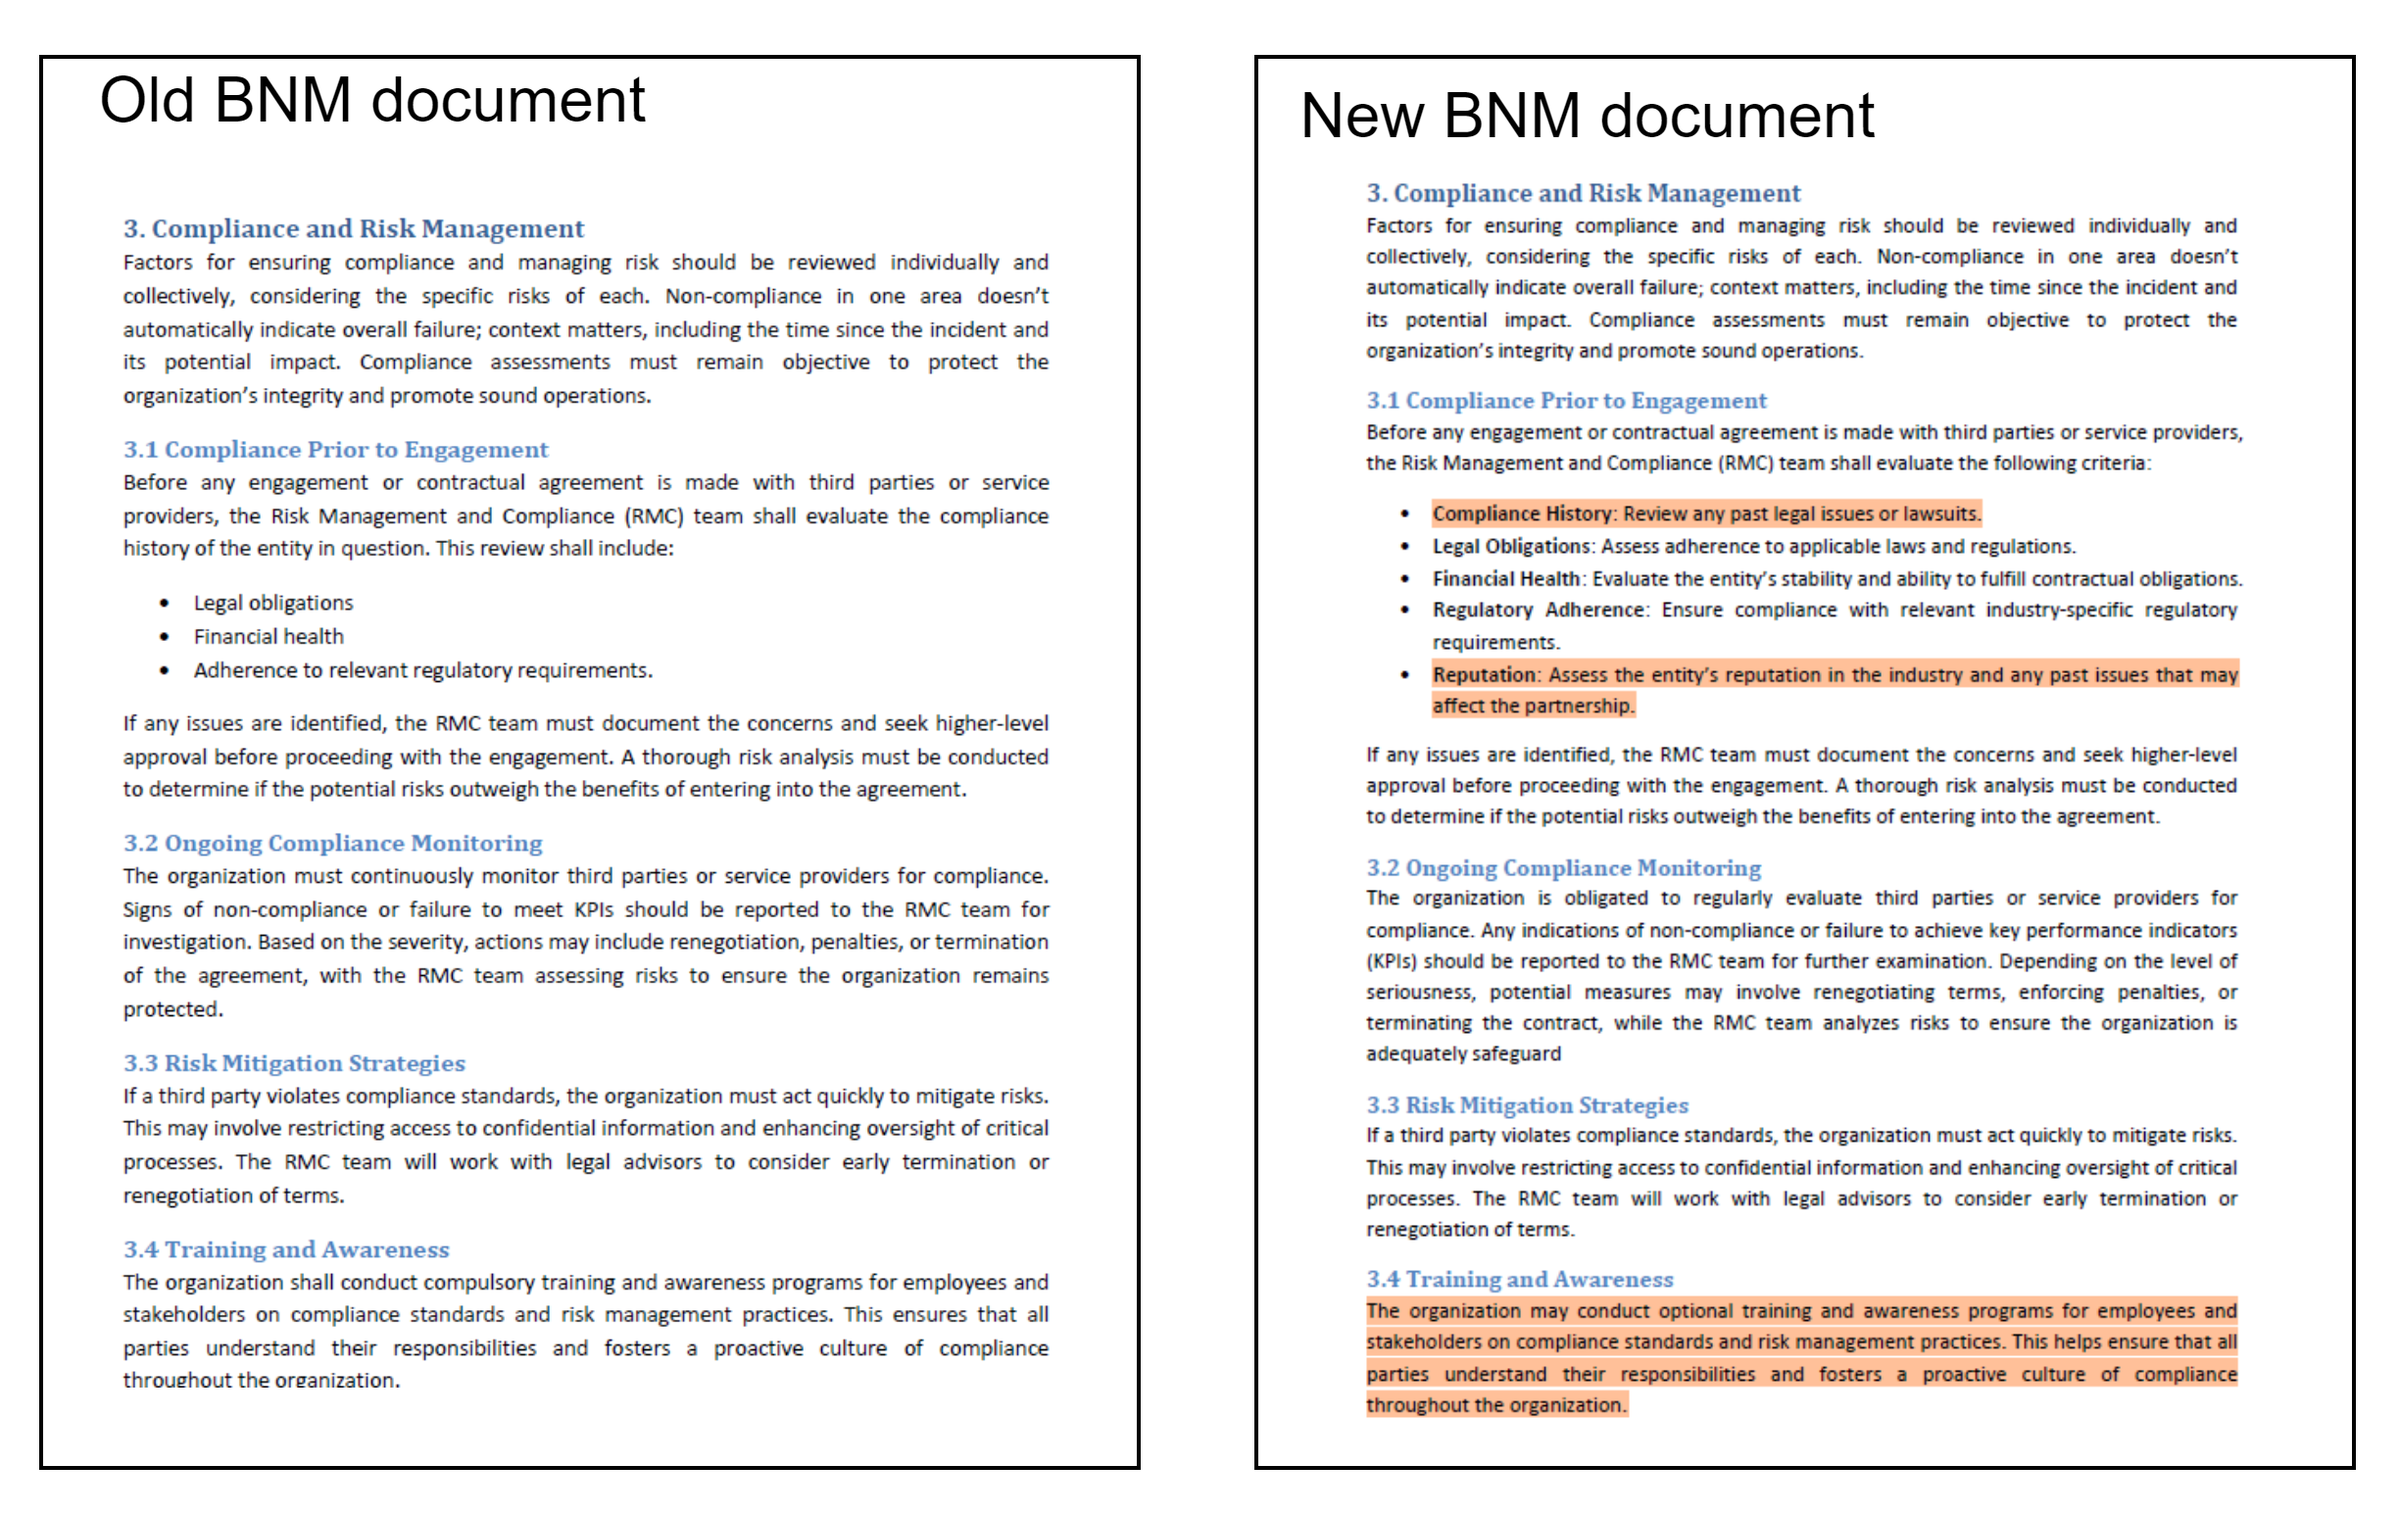
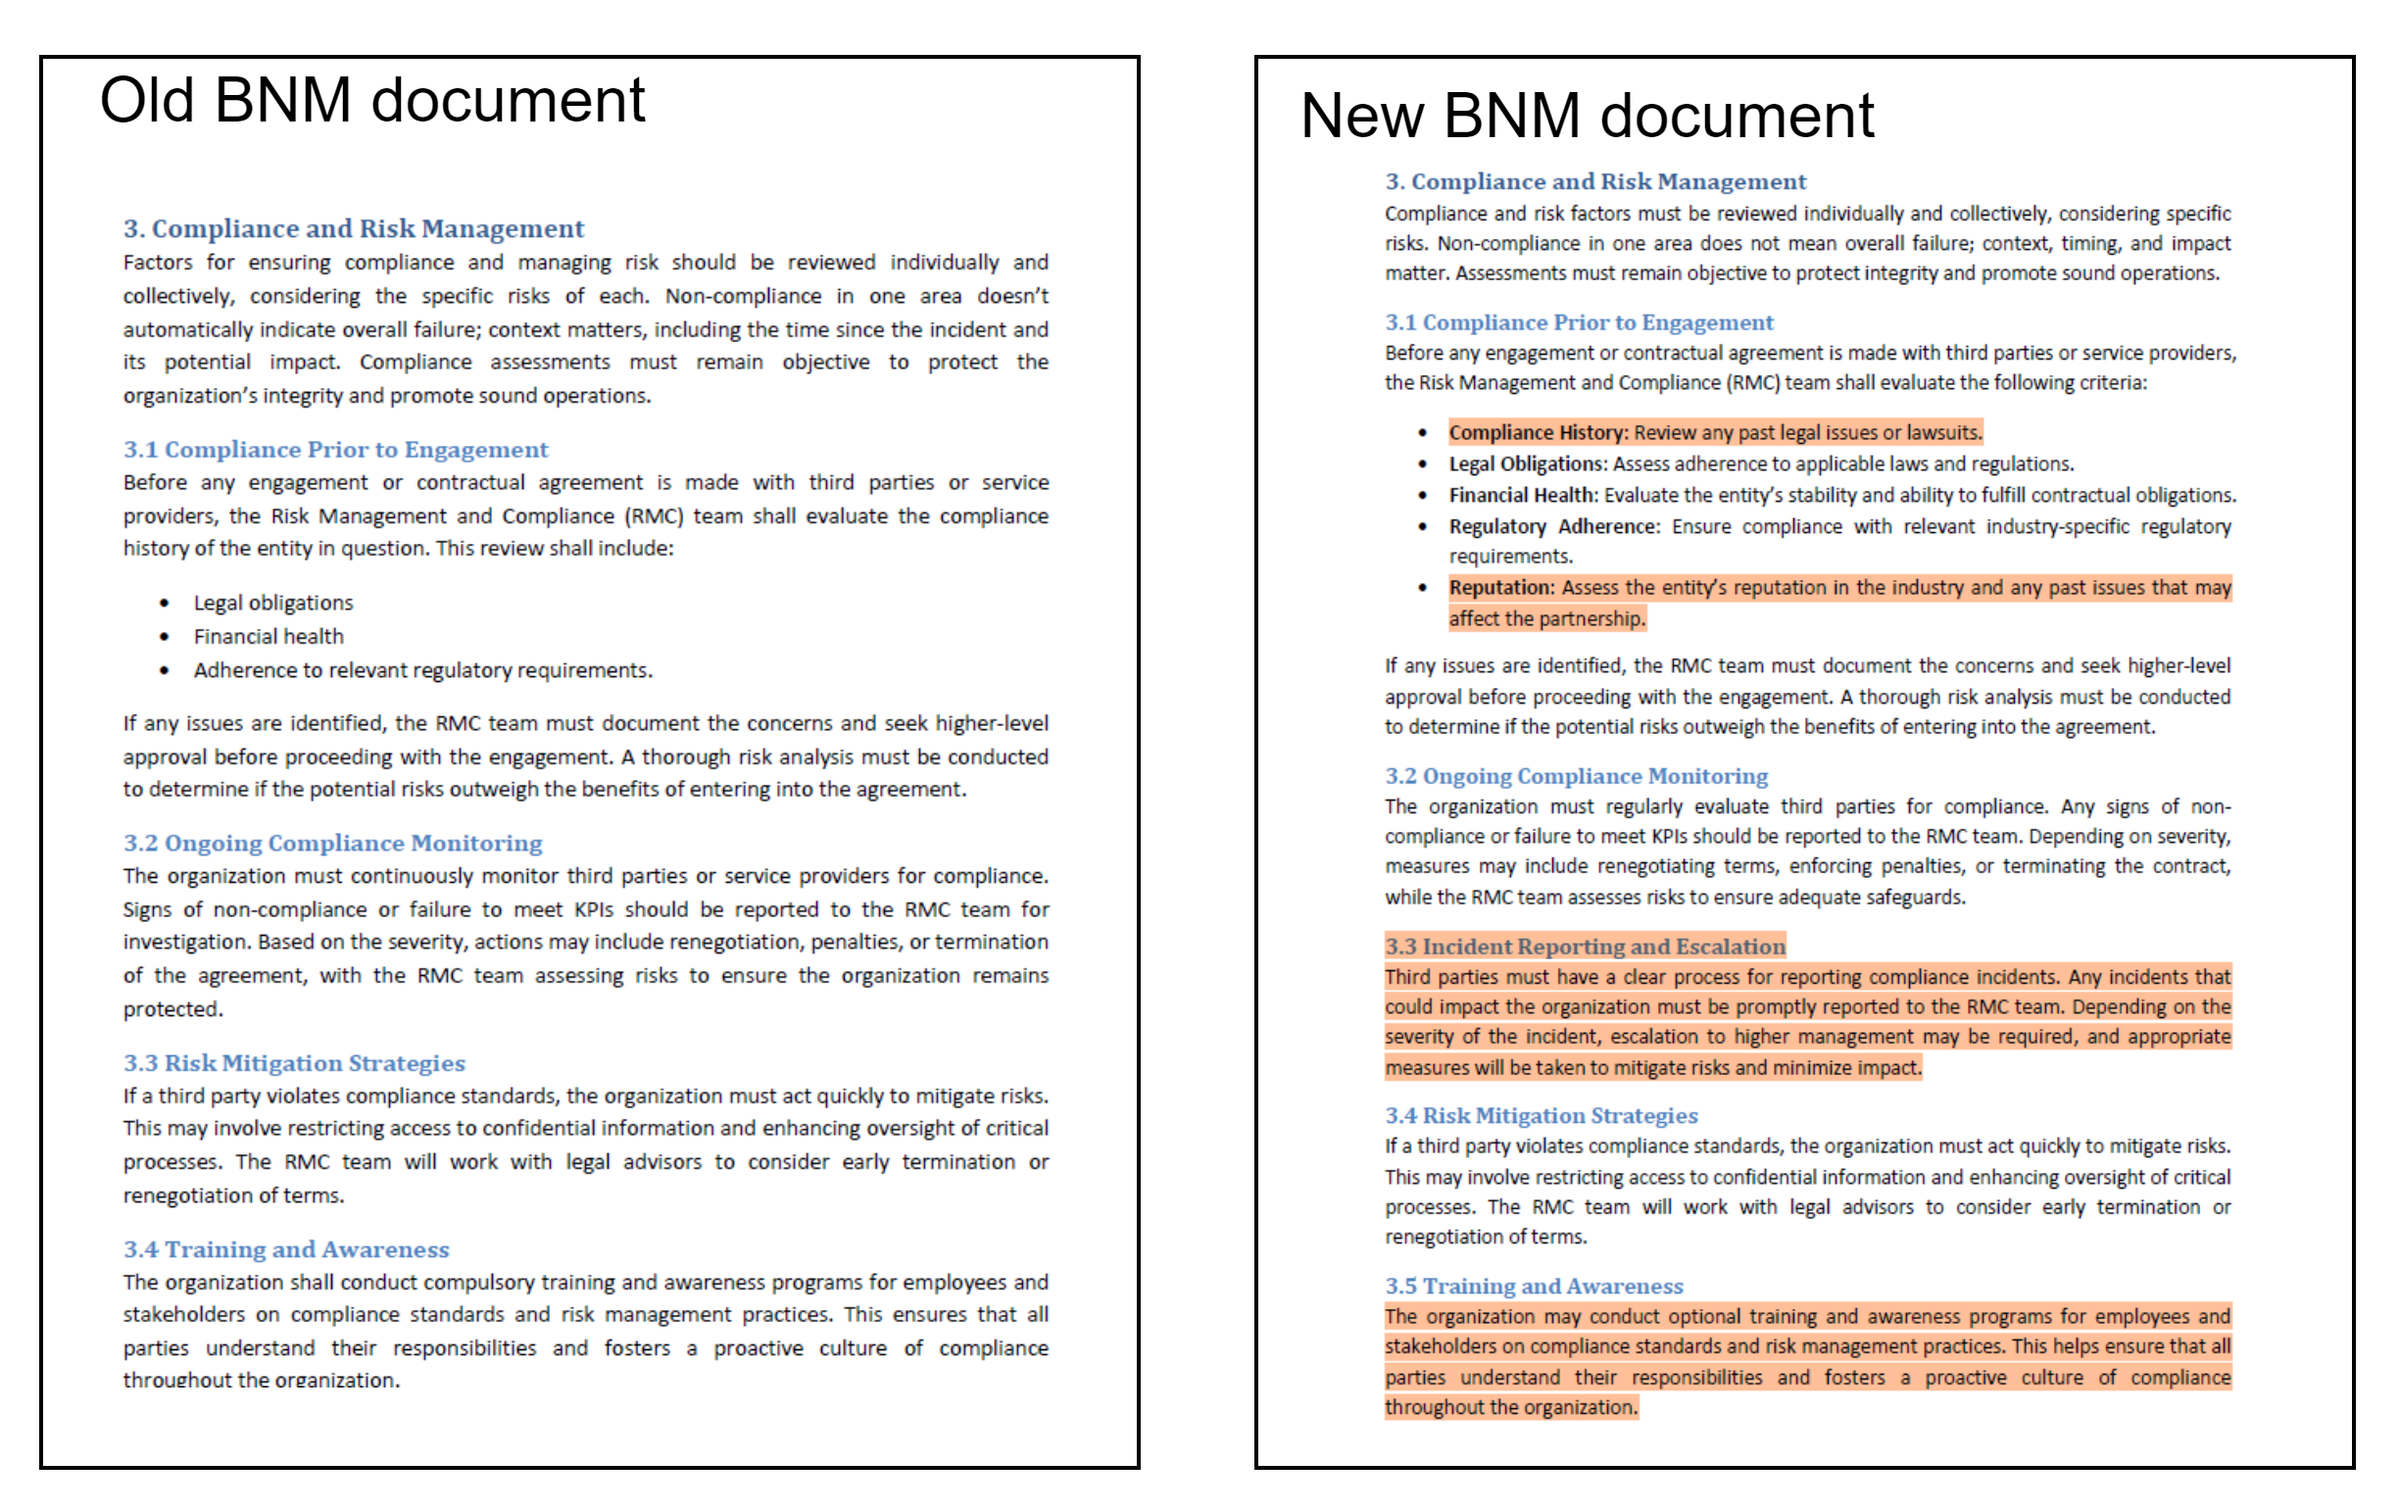
Updated change identification example to include additional type of change

Changed region(s): [[0.5278, 0.0935, 0.9935, 0.9974], [0.031, 0.1558, 0.4346, 0.9351], [0.031, 0.9662, 0.4657, 0.9974]]

diff --git a/README.md b/README.md
@@ -2,10 +2,10 @@
 
 # AI for Regulatory Compliance in Financial Institutions
 
-## Background:
+## Background
 The financial sector in Malaysia operates under a strict regulatory framework established by Bank Negara Malaysia (BNM). Each financial institution has developed a comprehensive set of internal procedures and policies to ensure compliance with BNM’s evolving guidelines. However, when BNM releases revisions to its policy documents, the manual process of reviewing, identifying changes, and assessing their impact on internal procedures is labor-intensive, time-consuming, and potentially prone to human error. We think this is the perfect problem space for applying a large language model technology that is inherently good at understanding and working with natural language within the documents.  
 
-## Problem Statement:
+## Problem Statement
 Whenever BNM releases new or updated policy documents, financial institutions must:
 
 1. **Identify Changes**: Accurately detect all new additions, modifications, or removals within the revised policy documents.
@@ -13,13 +13,13 @@ Whenever BNM releases new or updated policy documents, financial institutions mu
 
 This manual process requires a team of personnel to carefully comb through extensive documents, which is resource-intensive and subject to oversight, potentially leading to compliance gaps or delays in policy updates.
 
-## Hackathon Challenge:
+## Hackathon Challenge
 The participants' goal is to develop an AI-driven solution that automates and optimizes this process. The AI system should be able to:
 
 1. **Identify Changes**: Automatically detect additions, modifications, or removals in revised BNM policy documents by comparing the latest versions with previous ones.
 2. **Assess Impact**: Analyze the detected changes and evaluate their potential impact on the internal procedures and policies of financial institutions. The solution should provide clear, actionable insights into how internal documents need to be updated to maintain compliance.
 
-## Evaluation Criteria:
+## Evaluation Criteria
 Provided with a set of BNM policy documents and their corresponding revisions, each solution will be evaluated against the following areas:
 
 1. **Quantitative**: F1 score for the changes identified between the revisions of each BNM policy document.
@@ -35,17 +35,17 @@ Provided with a set of BNM policy documents and their corresponding revisions, e
 
 Ensuring fairness and consistency in the evaluation, the same set of internal procedures and policies will be used for the evaluation of all solutions.
 
-## Expected Outcome:
+## Expected Outcome
 By the end of the hackathon, participants will showcase AI solutions capable of streamlining the policy review process, enhancing efficiency, reducing human error, and ensuring that financial institutions in Malaysia stay up-to-date with BNM’s regulatory revisions in a timely and accurate manner.
 
-## Key Deliverables:
+## Key Deliverables
 1. **Change Detection Algorithm**: A robust mechanism to detect document revisions, highlighting any additions, deletions, or modifications.
 2. **Impact Analysis Tool**: A system that can map policy changes to corresponding internal procedures and suggest necessary updates.
 3. **User Interface**: A dashboard or report generation system that presents findings and suggestions in a user-friendly manner.
 
 This hackathon is an exciting opportunity for teams to apply cutting-edge AI technologies to a real-world challenge, ultimately contributing to the financial sector’s compliance and operational efficiency. 
 
-### Submission: 
+### Submission
 Fork this repository and submit your solution through your own fork.
 
 # Examples
@@ -60,22 +60,41 @@ The first challenge requires the solution to automatically detect additions, mod
 <table>
     <tr>
         <th>No</th>
-        <th>Output A (Identified section only)</th>
-        <th>Output B (Identified section and description)</th>
+        <th>Affected Section</th>
+        <th>Summary of Impact</th>
+    </tr>
+   <tr>
+      <td>1</td>
+      <td>3.1 / Section 3.1</td>
+      <td>
+        The following additions have been made in the updated version of the document:
+        <br><br>
+        1. Compliance History: A new criterion has been added to review any past legal issues or lawsuits related to the entity.
+        <br>
+        2. Reputation: A new section has been introduced to assess the entity’s reputation in the industry and any past issues that could affect the partnership.
+        <br><br>
+        Both of these points were not present in the original version.
+      </td>
     </tr>
     <tr>
-        <td>1</td>
-        <td>3.1</td>
-        <td>Section 3.1</td>
+      <td>2</td>
+      <td>3.3 / Paragraph 3.3</td>
+      <td>A new section, 'Incident Reporting and Escalation,' is added.</td>
     </tr>
     <tr>
-        <td>2</td>
-        <td>3.4</td>
-        <td>3.4 Training and Awareness</td>
+      <td>3</td>
+      <td>
+        <b>Based on old policy document:</b><br/>3.4 / 3.4 Training and Awareness
+        <br/><br/>
+        <b>Based on new policy document:</b><br/>3.5 / 3.5 Training and Awareness
+        </td>
+      <td>The section number has been moved from 3.4 to 3.5 due to the addition of a new section (3.3). The training and awareness program has been changed to optional.</td>
     </tr>
 </table>
-
 </div>
+
+*Notice: It does not matter whether the old or new policy document is used as the point of reference in identifying updated section(s), as illustrated in the example above.
+
 
 **Goal 2: Assess Impact**
 ![alt text](assets/impact-assessment.png)
